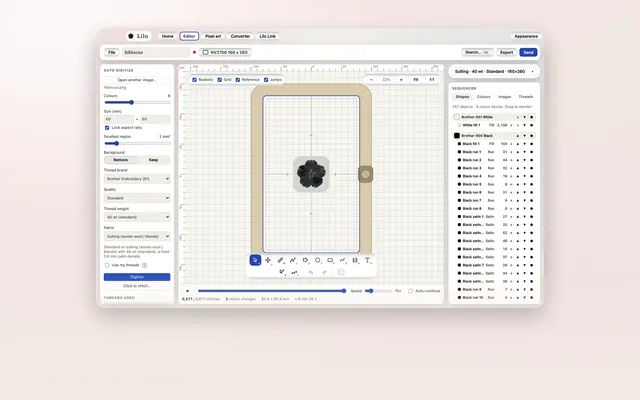
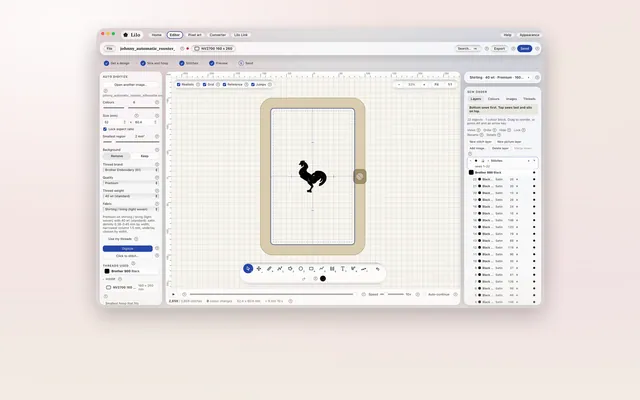
docs: real screenshots in the manual and on the website
Claude-Session: https://claude.ai/code/session_01XcNZeVtrgQxkh6EXrLrmnq

Changed region(s): [[0.1562, 0.06, 0.8438, 0.78]]

diff --git a/editor/src/guide/data.ts b/editor/src/guide/data.ts
@@ -107,6 +107,11 @@ const diagramModules = import.meta.glob("../../../docs/guide/diagrams/*.svg", { 
 const DIAGRAMS = new Map(Object.entries(diagramModules).map(([k, v]) => [k.replace("../../../docs/guide/", ""), v]));
 export const diagramUrl = (path: string): string | undefined => DIAGRAMS.get(path);
 
+/** Real screenshots by their path inside docs/guide (for `![alt](screenshots/x.png)`). A page may name one we have not captured yet. */
+const screenshotModules = import.meta.glob("../../../docs/guide/screenshots/*.png", { query: "?url", import: "default", eager: true }) as Record<string, string>;
+const SCREENSHOTS = new Map(Object.entries(screenshotModules).map(([k, v]) => [k.replace("../../../docs/guide/", ""), v]));
+export const screenshotUrl = (path: string): string | undefined => SCREENSHOTS.get(path);
+
 /** The page to open for a UI area (an `appContext` id), lowest order first. */
 export function pageForContext(index: GuideIndex, context: string): GuidePage | undefined {
   return index.pages.filter((p) => p.appContext.includes(context)).sort((a, b) => a.order - b.order)[0];

diff --git a/editor/src/guide/Markdown.tsx b/editor/src/guide/Markdown.tsx
@@ -1,5 +1,5 @@
 import { Fragment, type ReactNode } from "react";
-import { diagramUrl } from "./data";
+import { diagramUrl, screenshotUrl } from "./data";
 
 /**
  * A small, safe Markdown renderer for the guide. It builds React elements only (no innerHTML), so a page
@@ -108,6 +108,8 @@ const INLINE = /(!\[([^\]]*)\]\(([^)\s]+)\))|(\[([^\]]+)\]\(([^)\s]+)\))|(\*\*([
 function Image({ alt, src }: { alt: string; src: string }) {
   const url = src.startsWith("diagrams/") ? diagramUrl(src) : undefined;
   if (url) return <img className="guide-diagram" src={url} alt={alt} loading="lazy" />;
+  const shot = src.startsWith("screenshots/") ? screenshotUrl(src) : undefined;
+  if (shot) return <img className="guide-diagram guide-screenshot" src={shot} alt={alt} loading="lazy" />;
   return (
     <span className="guide-shot" role="img" aria-label={`${alt} (screenshot not captured yet)`}>
       <span aria-hidden="true">{alt}</span>

diff --git a/editor/src/guide/guide.test.tsx b/editor/src/guide/guide.test.tsx
@@ -150,6 +150,11 @@ describe("Markdown renderer", () => {
     expect(screen.getByRole("img", { name: /The toolbar \(screenshot not captured yet\)/ })).toBeTruthy();
   });
 
+  it("shows a captured screenshot as an image", () => {
+    render(<Markdown source={"![The editor](screenshots/editor-overview.png)"} onNavigate={() => undefined} />);
+    expect(screen.getByRole("img", { name: "The editor" }).tagName).toBe("IMG");
+  });
+
   it("parses blocks", () => {
     expect(parseBlocks("# T\n\ntext\n\n- a\n- b").map((b) => b.kind)).toEqual(["heading", "para", "list"]);
   });

diff --git a/docs/guide/SCREENSHOTS.md b/docs/guide/SCREENSHOTS.md
@@ -1,14 +1,11 @@
 # Screenshots to capture
 
-The guide points at these images, but the files are not captured yet. Until then the Help panel shows a labelled placeholder. Capture each one at 1440 by 900 on the light theme, save it as a PNG in `docs/guide/screenshots/` under the name shown, and keep the alt text in the page.
+The guide points at these images, but these files are not captured yet. Until then the Help panel shows a labelled placeholder. Capture each one at 1440 by 900 on the light theme, save it as a PNG in `docs/guide/screenshots/` under the name shown, and keep the alt text in the page. Once the file exists, delete its row here. Only real Lilo samples or public-domain designs may appear in a screenshot (the rooster in the sample set is fine); never a third-party commercial design.
 
 | File | Page | What to show |
 | --- | --- | --- |
 | `home-start.png` | first-design | The Home screen with the six starting cards and a recent project |
-| `editor-overview.png` | screen-tour | The editor with a digitized logo, numbered areas: top bar, workflow strip, left panel, canvas, toolbar, player, right column |
 | `toolbar.png` | drawing-tools | The bottom toolbar with the Select tool active and the tool keys visible |
 | `run-types.png` | run-types | Seven short lines, one per run type, in the realistic view |
-| `sewing-card.png` | sewing-setup | The Sewing setup card open, showing fabric, thread weight, quality and the checklist |
 | `player.png` | stitch-player | The stitch player at a colour change, with the "Swap to" card showing |
 | `gap-fix.png` | sewout-troubleshooting | A fill with a gap to its outline, then the same shape with pull compensation raised |
-| `stitch-safety-card.png` | stitch-safety | The Stitch safety card in Before you sew: a green band behind each slider, one amber row with its reason, and the speed line above it |

diff --git a/docs/guide/stitch-safety.md b/docs/guide/stitch-safety.md
@@ -20,7 +20,7 @@ Amber is a heads up. It is never a block. Lilo still makes the file and you can 
 - **Before you sew:** open Export or Send and scroll to **Stitch safety**. It has one row for each setting your design uses.
 - **On a shape:** select it. The sliders for spacing, stitch length, width and pull compensation carry the same green band.
 
-![The Stitch safety card in Before you sew](screenshots/stitch-safety-card.png)
+![The Stitch safety card in the Send window, with a green band behind each slider and "All in the green" at the top](screenshots/stitch-safety-card.png)
 
 Inside the green, the dot is green. Outside it, the dot and the box turn amber and one short sentence says why. For example, a satin spacing of 0.30 mm says: "Too tight. The fabric puckers and the thread can break."
 

diff --git a/CHANGELOG.md b/CHANGELOG.md
@@ -8,6 +8,8 @@ dated section for the release (see [docs/RELEASING.md](docs/RELEASING.md)).
 
 ## [Unreleased]
 
+- The manual and website now show real screenshots.
+
 ## [1.3.0] - 2026-10-05
 
 - **Layers.** The right-hand panel now has a **Layers** tab where pictures and stitch layers sit in one list. The list is the order the machine sews: the bottom layer sews first and the top layer sews last, so it sits on top. Each layer has an eye (show or hide), a padlock, a name you can change, and a "sews 4–7" note that says where it falls in the order. Picture layers have an opacity slider.

diff --git a/docs/guide/my-threads.md b/docs/guide/my-threads.md
@@ -21,6 +21,8 @@ In the Sew order panel on the right, open the **My Threads** tab.
 
 Three ways:
 
+![The Threads tab with "Brother" typed into the catalogue search and an Add button next to each result](screenshots/my-threads.png)
+
 1. **From the catalogue.** Type a brand, code or name into the search box and press **Add** next to the result. Adding the same spool again raises its quantity.
 2. **By photo.** Read [Add a spool by photo](add-by-photo.md).
 3. **By hand.** Fill in **Brand**, **Line**, **Code** and **Name** for a spool Lilo does not know.

diff --git a/docs/guide/sewing-setup.md b/docs/guide/sewing-setup.md
@@ -25,7 +25,7 @@ Changing any of them updates the stitches Lilo made. Anything you edited by hand
 
 The card lists what the setup calls for: needle, stabiliser, topping and hooping tips. The same list appears as **Before you sew** in the Export and Send windows, so you see it before you hit the machine.
 
-![The Sewing setup card, open](screenshots/sewing-card.png)
+![The Sewing setup card open at the top of the right column, showing fabric, thread weight, quality, hoop, needle and stabiliser](screenshots/sewing-card.png)
 
 ## Stitch safety and speed
 

diff --git a/docs/guide/sizing-and-hoops.md b/docs/guide/sizing-and-hoops.md
@@ -31,6 +31,8 @@ Nothing selected? **Auto-digitize** has its own width and height boxes. They set
 
 The **hoop chip** in the top bar and in the **Hoop** section shows the current hoop. Click it to open the picker.
 
+![The Choose a hoop window, with brands on the left, machines in the middle and hoop sizes on the right](screenshots/hoop-picker.png)
+
 - Search by **brand**, **machine** or hoop name.
 - Recently used hoops come first.
 - **Smallest hoop that fits** picks the smallest hoop that holds your design.

diff --git a/docs/guide/screen-tour.md b/docs/guide/screen-tour.md
@@ -11,7 +11,7 @@ status: "ready"
 
 # The screen at a glance
 
-![The editor with each area numbered](screenshots/editor-overview.png)
+![The editor with a digitized rooster: the top bar, workflow strip, left panel, canvas, toolbar, player and the Sew order panel on the right](screenshots/editor-overview.png)
 
 The editor has the same layout every time. Here is where things live.
 

diff --git a/docs/guide/export-formats.md b/docs/guide/export-formats.md
@@ -15,6 +15,8 @@ Press **Export** at the top right. It is greyed out until the design has stitche
 
 ## Choose the format
 
+![The Export window with the format buttons, the design details, the file name and the origin grid](screenshots/export-dialog.png)
+
 Under **File format**, press the one your machine reads. If you do not know:
 
 - **Brother or Baby Lock:** PES.
